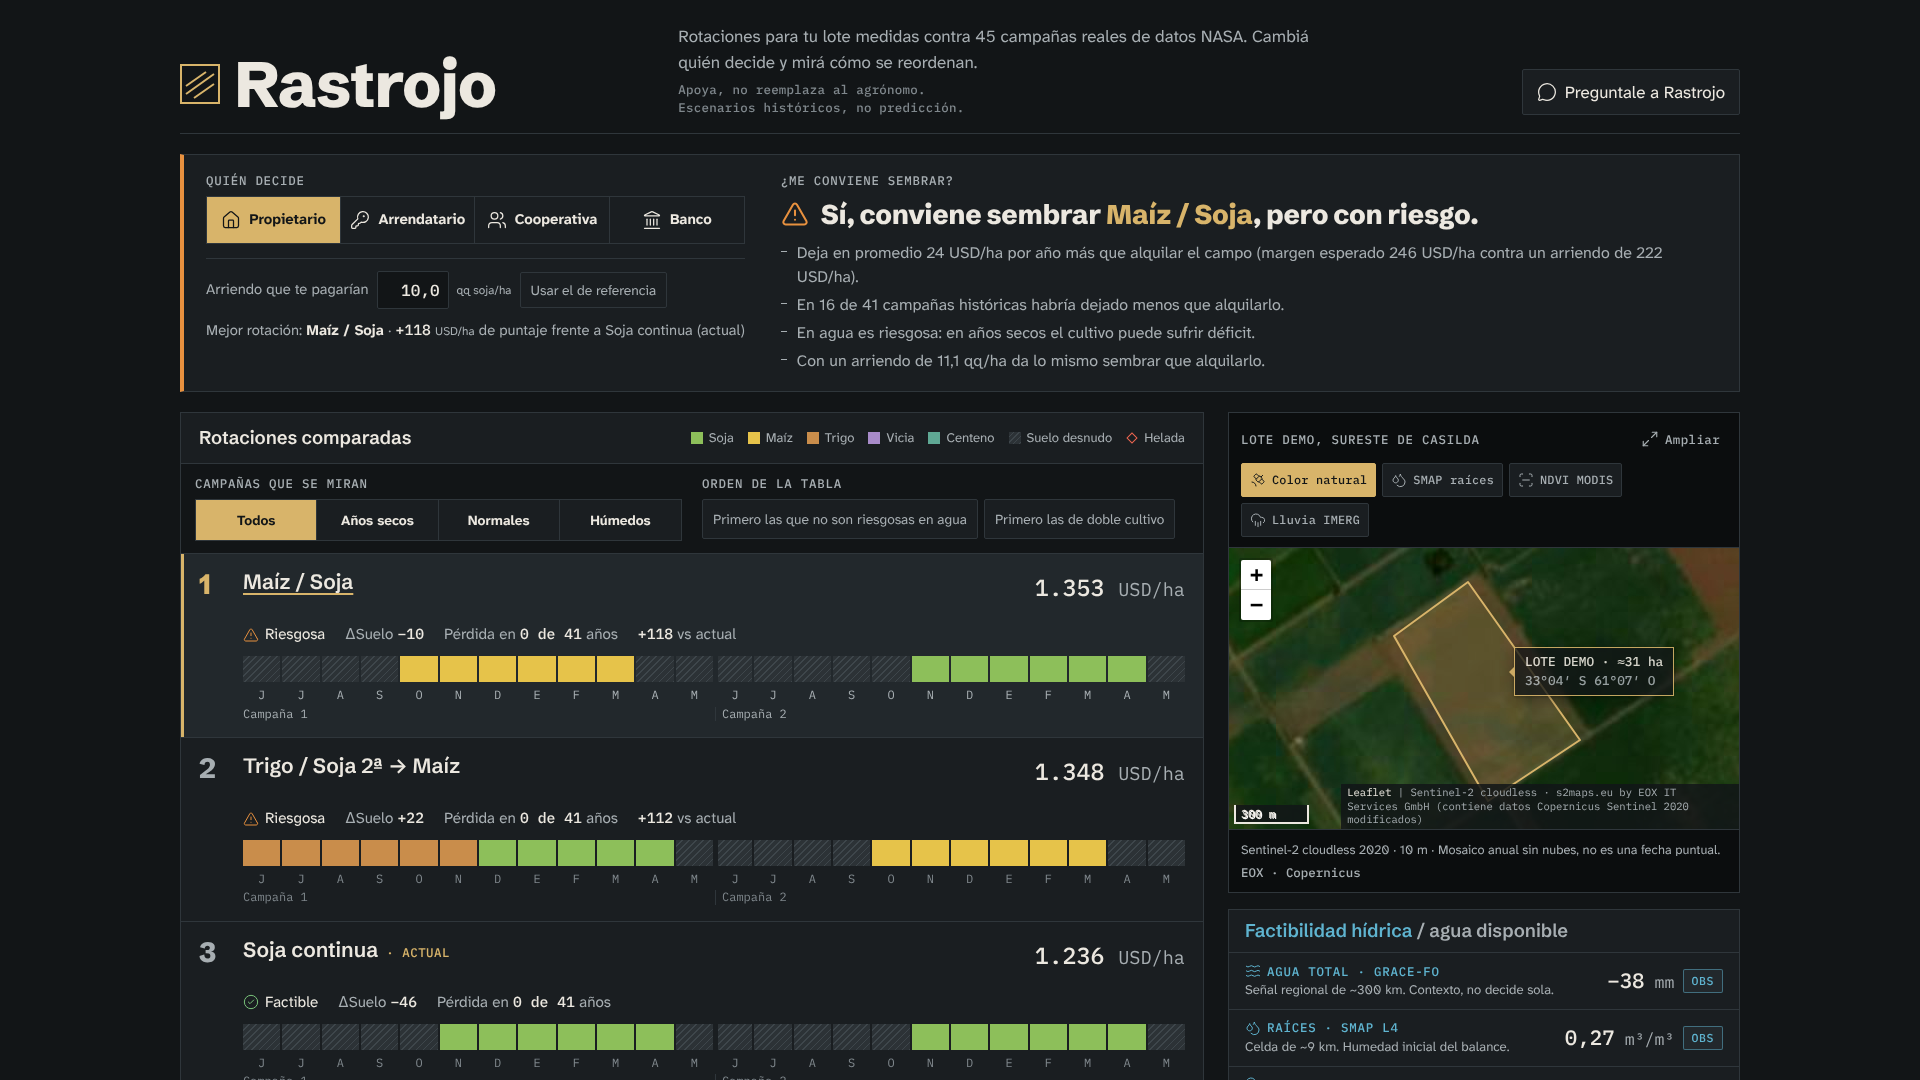
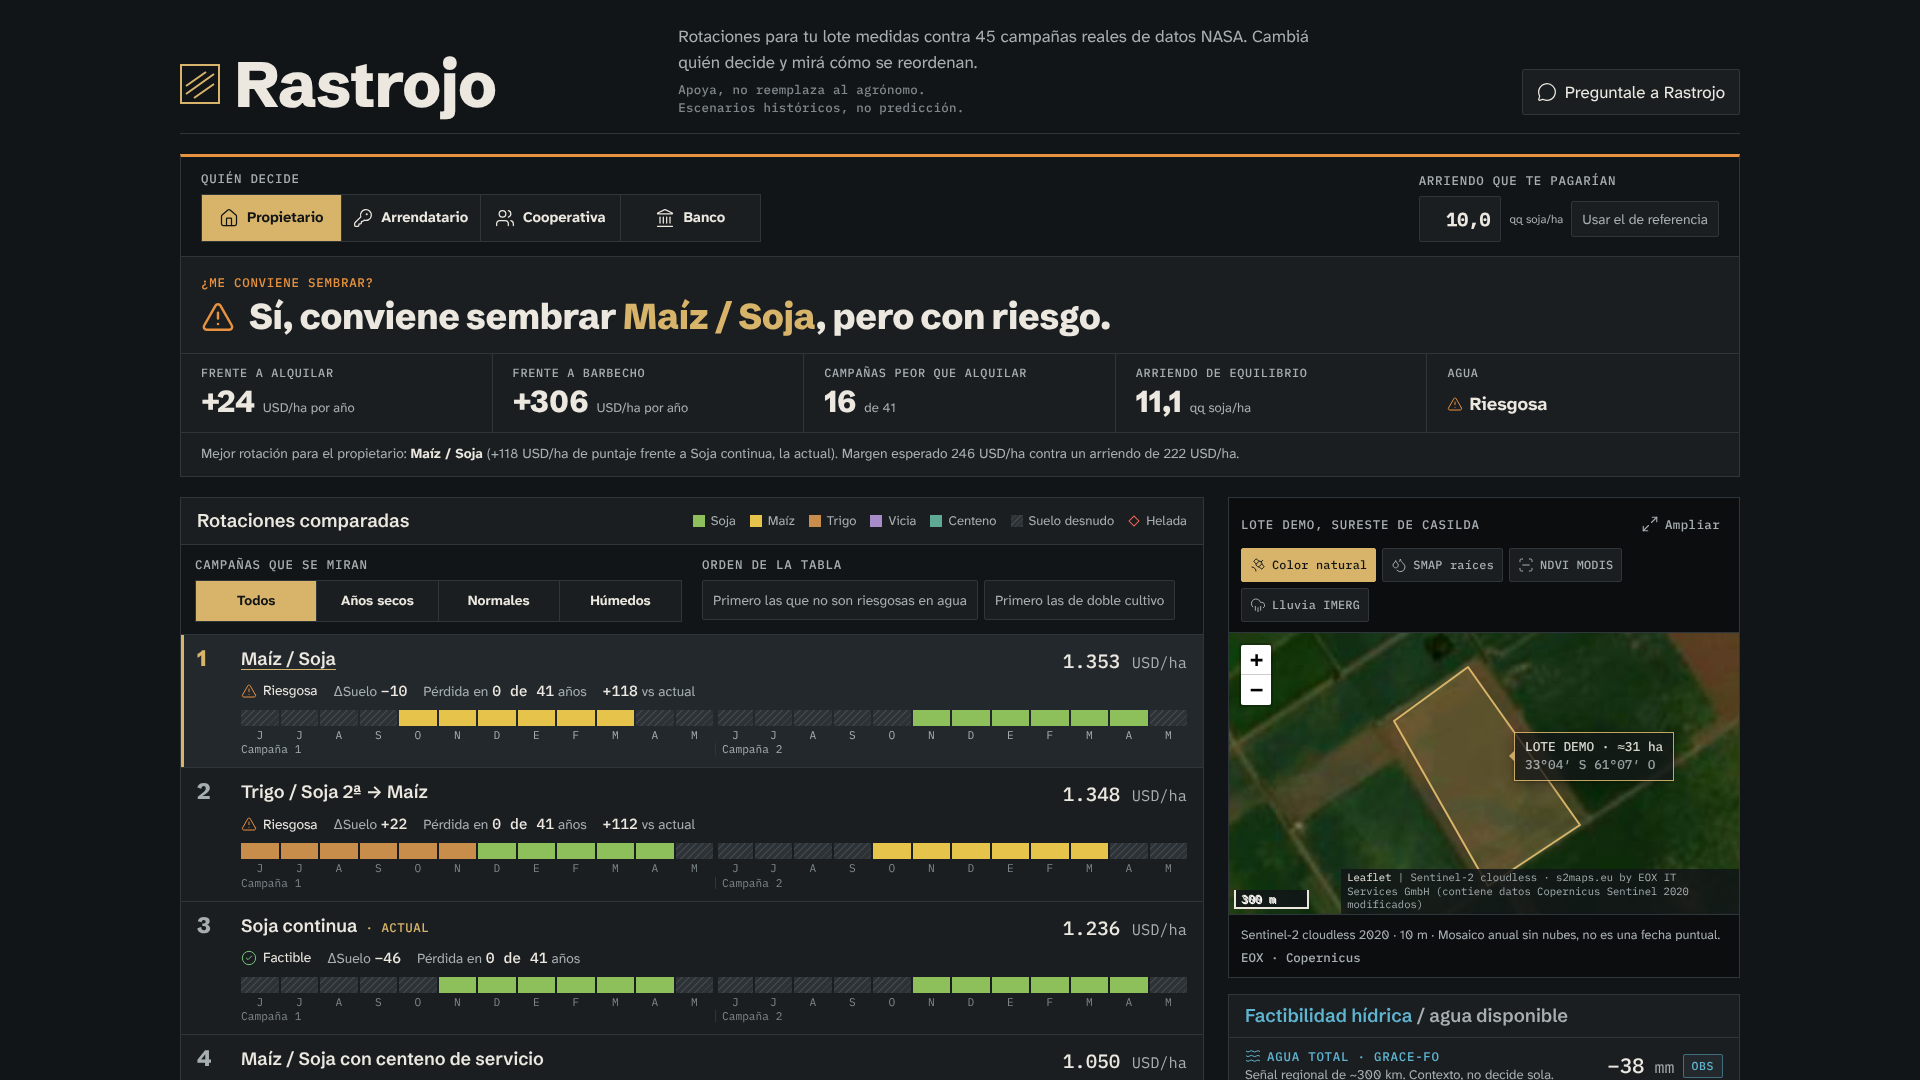
wip(web): condensed ranking rows, verdict header with control bar and stat tiles
Local only: pending the user's review before pushing.

Claude-Session: https://claude.ai/code/session_01JTGC2xwYJ8ZqjVg3XMmALB

diff --git a/web/src/styles/app.css b/web/src/styles/app.css
@@ -84,34 +84,46 @@ header.top {
 /* Verdict band: "¿me conviene sembrar?" answered first, with who decides */
 .verdict {
   --v: var(--color-straw);
-  display: grid; grid-template-columns: minmax(300px, auto) minmax(0, 1fr); gap: 16px 36px; align-items: start;
-  background: var(--color-panel); border: 1px solid var(--color-rule); border-left: 4px solid var(--v);
-  padding: 18px 22px;
+  display: grid; gap: 0;
+  background: var(--color-panel); border: 1px solid var(--color-rule); border-top: 3px solid var(--v);
 }
 .verdict.v-sow { --v: var(--color-state-feasible); }
 .verdict.v-risk { --v: var(--color-state-risky); }
 .verdict.v-no { --v: var(--color-state-not-feasible); }
-.verdict-body { display: grid; gap: 10px; min-width: 0; }
-.verdict-q { color: var(--color-text-soft); }
-.verdict-line { display: flex; gap: 12px; align-items: flex-start; font: 700 clamp(1.3rem, 1.7vw, 1.7rem)/1.2 var(--font-display); letter-spacing: -0.01em; color: var(--color-text); }
-.verdict-icon { flex: none; color: var(--v); margin-top: 2px; }
+.verdict-bar {
+  display: flex; flex-wrap: wrap; align-items: end; justify-content: space-between; gap: 12px 32px;
+  padding: 14px 20px; background: var(--color-graphite); border-bottom: 1px solid var(--color-rule);
+}
+.verdict-bar .actorbar { min-width: min(100%, 560px); }
+.verdict-body { display: grid; gap: 6px; padding: 18px 20px 16px; min-width: 0; }
+.verdict-q { color: var(--v); }
+.verdict-line { display: flex; gap: 14px; align-items: center; font: 800 clamp(1.5rem, 2.3vw, 2.25rem)/1.12 var(--font-display); letter-spacing: -0.015em; color: var(--color-text); }
+.verdict-icon { flex: none; color: var(--v); }
 .verdict-line em { font-style: normal; color: var(--color-straw); }
-.verdict-reasons { display: grid; gap: 4px; color: var(--color-text-soft); font-size: 1rem; }
-.verdict-reasons li { position: relative; padding-left: 16px; }
-.verdict-reasons li::before { content: ""; position: absolute; left: 0; top: 0.62em; width: 6px; height: 1px; background: var(--color-text-soft); }
-.verdict-side { display: grid; gap: 14px; align-content: start; min-width: 0; }
-.verdict-foot { display: grid; gap: 10px; border-top: 1px solid var(--color-rule); padding-top: 12px; }
-.rent { display: inline-flex; flex-wrap: wrap; align-items: center; gap: 8px; font-size: 0.92rem; color: var(--color-text-soft); }
+.stats { display: grid; grid-template-columns: repeat(auto-fit, minmax(170px, 1fr)); border-top: 1px solid var(--color-rule); }
+.stat { padding: 12px 20px 14px; border-right: 1px solid var(--color-rule); display: grid; gap: 6px; align-content: start; min-width: 0; }
+.stat:last-child { border-right: 0; }
+.stat dt { font: 500 0.74rem/1.25 var(--font-mono); letter-spacing: 0.06em; text-transform: uppercase; color: var(--color-text-soft); }
+.stat dd { display: flex; align-items: baseline; gap: 8px; flex-wrap: wrap; }
+.stat-value { font: 700 1.9rem/1 var(--font-display); color: var(--color-text); }
+.stat-value .state { font: 600 1.15rem/1.2 var(--font-body); }
+.stat-note { font-size: 0.82rem; color: var(--color-text-soft); }
+.verdict-foot { padding: 10px 20px 12px; border-top: 1px solid var(--color-rule); max-width: none; }
+.verdict-foot b { color: var(--color-text); }
+.rent { display: grid; gap: 8px; }
+.rent-field { display: inline-flex; flex-wrap: wrap; align-items: center; gap: 8px; font-size: 0.9rem; color: var(--color-text-soft); }
 .rent input {
-  width: 4.5em; min-height: 38px; padding: 6px 8px; text-align: right;
-  font: 500 1rem/1 var(--font-mono); color: var(--color-text);
-  background: var(--color-graphite); border: 1px solid var(--color-rule); border-radius: var(--rounded-sm);
+  width: 4.5em; min-height: 46px; padding: 6px 10px; text-align: right;
+  font: 600 1.15rem/1 var(--font-mono); color: var(--color-text);
+  background: var(--color-panel); border: 1px solid var(--color-rule); border-radius: var(--rounded-sm);
 }
 .rent input:focus-visible { border-color: var(--color-straw); }
-.verdict-best { font-size: 0.92rem; color: var(--color-text-soft); }
-.verdict-best b { color: var(--color-text); font-weight: 700; }
-.verdict-best .fig { color: var(--color-text); }
-@media (max-width: 1240px) { .verdict { grid-template-columns: minmax(0, 1fr); } }
+@media (max-width: 640px) {
+  .stats { grid-template-columns: repeat(2, minmax(0, 1fr)); }
+  .stat { border-bottom: 1px solid var(--color-rule); }
+  .stat:nth-child(2n) { border-right: 0; }
+  .verdict-line { align-items: flex-start; }
+}
 
 /* Map */
 .map { background: var(--color-map-ground); border: 1px solid var(--color-rule); min-width: 0; }
@@ -250,7 +262,7 @@ header.top {
 @keyframes load { from { transform: scaleX(0); } to { transform: scaleX(1); } }
 .rank.is-loading .rows { opacity: 0.6; }
 .rows { transition: opacity var(--dur-quick) var(--ease-out); }
-.rank-head { display: flex; flex-wrap: wrap; justify-content: space-between; gap: 10px; padding: 14px 18px; border-bottom: 1px solid var(--color-rule); align-items: center; }
+.rank-head { display: flex; flex-wrap: wrap; justify-content: space-between; gap: 10px; padding: 12px 16px; border-bottom: 1px solid var(--color-rule); align-items: center; }
 .legend { display: flex; flex-wrap: wrap; gap: 6px 14px; font-size: 0.82rem; color: var(--color-text-soft); }
 .legend li { display: inline-flex; align-items: center; gap: 6px; }
 .key { width: 12px; height: 12px; display: inline-block; }
@@ -258,7 +270,7 @@ header.top {
 
 .row {
   display: grid; grid-template-columns: 30px minmax(0, 1fr) auto; gap: 4px 14px;
-  padding: 16px 18px; border-bottom: 1px solid var(--color-rule); background: var(--color-panel);
+  padding: 12px 16px; border-bottom: 1px solid var(--color-rule); background: var(--color-panel);
   box-shadow: inset 0 0 0 transparent;
   transition: box-shadow var(--dur-quick) var(--ease-out), background var(--dur-instant) var(--ease-out);
   position: relative;
@@ -268,26 +280,28 @@ header.top {
 .row.selected { background: var(--color-panel-2); }
 /* Faint text only reaches 4.5:1 on graphite/panel; on panel-2 it steps up to soft. */
 .row.selected .months, .row.selected .campaigns { color: var(--color-text-soft); }
-.pos { font: 800 1.75rem/1 var(--font-display); color: var(--color-text-soft); }
+.pos { font: 800 1.4rem/1 var(--font-display); color: var(--color-text-soft); }
 .row.first .pos { color: var(--color-straw); }
 .name { min-width: 0; }
 .name-btn {
   background: none; border: 0; padding: 0; text-align: left; cursor: pointer;
-  font: 600 1.3rem/1.2 var(--font-display); color: var(--color-text);
+  font: 600 1.12rem/1.2 var(--font-display); color: var(--color-text);
   text-decoration: underline transparent; text-underline-offset: 4px;
   transition: text-decoration-color var(--dur-instant) var(--ease-out);
 }
 .name-btn:hover, .name-btn[aria-pressed="true"] { text-decoration-color: var(--color-straw); }
 .current-tag { font: 500 0.78rem/1 var(--font-mono); letter-spacing: 0.04em; color: var(--color-straw); text-transform: uppercase; }
 .score { text-align: right; display: grid; gap: 2px; justify-items: end; }
-.score .fig { font-size: 1.45rem; }
+.score { position: relative; }
+.score .fig { font-size: 1.2rem; }
+.score .move { position: absolute; right: 0; top: calc(100% + 2px); }
 .move { font: 500 0.78rem/1 var(--font-mono); color: var(--color-straw); min-height: 1em; }
 .out { font: 500 0.78rem/1.2 var(--font-mono); letter-spacing: 0.06em; text-transform: uppercase; color: var(--color-text-soft); border: 1px solid var(--color-rule); border-radius: var(--rounded-sm); padding: 5px 8px; white-space: nowrap; }
 .why { flex-basis: 100%; color: var(--color-text); }
 .row.ineligible .rot-name { color: var(--color-text-soft); }
 .move[data-move] { animation: move-mark 2.5s linear forwards; }
 @keyframes move-mark { 0%, 88% { opacity: 1; } 100% { opacity: 0; } }
-.facts { grid-column: 2 / 4; display: flex; flex-wrap: wrap; align-items: center; gap: 4px 20px; font-size: 0.95rem; color: var(--color-text-soft); }
+.facts { grid-column: 2 / 4; display: flex; flex-wrap: wrap; align-items: center; gap: 2px 16px; font-size: 0.86rem; color: var(--color-text-soft); }
 .state { display: inline-flex; align-items: center; gap: 6px; color: var(--color-text); }
 .state svg { flex: none; }
 .st-feasible svg { color: var(--color-state-feasible); }
@@ -296,11 +310,11 @@ header.top {
 .st-unknown svg { color: var(--color-state-unknown); }
 
 /* Campaign strip */
-.strip-wrap { grid-column: 2 / 4; min-width: 0; margin-top: 6px; }
+.strip-wrap { grid-column: 2 / 4; min-width: 0; margin-top: 4px; }
 .strip, .months, .campaigns { display: grid; grid-template-columns: repeat(var(--cells), minmax(0, 1fr)); gap: 2px; }
-.campaigns { grid-template-columns: repeat(2, minmax(0, 1fr)); margin-top: 4px; font: 400 0.75rem/1.2 var(--font-mono); color: var(--color-text-faint); }
+.campaigns { grid-template-columns: repeat(2, minmax(0, 1fr)); margin-top: 2px; font: 400 0.7rem/1.1 var(--font-mono); color: var(--color-text-faint); }
 .campaigns span:last-child { border-left: 1px solid var(--color-rule); padding-left: 6px; }
-.strip i { height: 26px; display: block; position: relative; }
+.strip i { height: 16px; display: block; position: relative; }
 .strip i.camp-start, .months span.camp-start { margin-left: 3px; }
 .crop-soy { background: var(--color-crop-soy); }
 .crop-maize { background: var(--color-crop-maize); }
@@ -315,7 +329,7 @@ header.top {
 }
 .strip.enter i { animation: cell-in var(--dur-move) var(--ease-out) backwards; animation-delay: calc(var(--i) * 30ms); }
 @keyframes cell-in { from { opacity: 0.15; } }
-.months { margin-top: 6px; font: 400 0.75rem/1.2 var(--font-mono); color: var(--color-text-faint); text-align: center; }
+.months { margin-top: 3px; font: 400 0.7rem/1.1 var(--font-mono); color: var(--color-text-faint); text-align: center; }
 @media (max-width: 560px) {
   .row { grid-template-columns: 24px minmax(0, 1fr); }
   .score { grid-column: 2; justify-items: start; text-align: left; }

diff --git a/web/src/components/Verdict.tsx b/web/src/components/Verdict.tsx
@@ -1,9 +1,10 @@
-import { Fragment, useEffect, useState, type ReactNode } from "react";
+import { useEffect, useState, type ReactNode } from "react";
 import { CircleCheck, CircleX, Handshake, TriangleAlert } from "lucide-react";
 import type { RotationResult, SowingDecision } from "../data/types";
 import { orderRows } from "../lib/rankDiff";
 import { formatNumber, formatSigned } from "../lib/format";
 import { ProvenanceBadge } from "./ProvenanceBadge";
+import { WaterState } from "./WaterState";
 
 interface Props {
   results: RotationResult[];
@@ -16,7 +17,7 @@ interface Props {
   rentQq?: number;
   onRentQq: (qq: number | undefined) => void;
   rentDisabled?: boolean;
-  /** The actor selector, shown in the band: changing who decides is the main move. */
+  /** The actor selector: changing who decides is the main move. */
   children: ReactNode;
 }
 
@@ -40,8 +41,20 @@ function emphasize(text: string, name: string | undefined) {
   );
 }
 
+function Stat({ label, children, note }: { label: string; children: ReactNode; note?: ReactNode }) {
+  return (
+    <div className="stat">
+      <dt>{label}</dt>
+      <dd>
+        <span className="stat-value">{children}</span>
+        {note && <span className="stat-note">{note}</span>}
+      </dd>
+    </div>
+  );
+}
+
 /** The answer first. "¿Me conviene sembrar?" (or, for a tenant, "¿sigo arrendando?") as the API decides
- *  it, then which rotation ranks first. Only restates figures that come from the API. */
+ *  it, with its figures as stat tiles. Only restates figures that come from the API. */
 export function Verdict({ results, order, names, actorLabel, isTenant, sowing, rentQq, onRentQq, rentDisabled, children }: Props) {
   const rows = orderRows(results, order);
   const top = rows.find((r) => r.eligible) ?? null;
@@ -52,6 +65,7 @@ export function Verdict({ results, order, names, actorLabel, isTenant, sowing, r
   const shownRent = sowing ? formatNumber(sowing.rent_qq, 1) : "";
   useEffect(() => setDraft(rentQq === undefined ? shownRent : formatNumber(rentQq, 1)), [rentQq, shownRent]);
   const v = sowing ? VERDICT[sowing.verdict] : null;
+  const alt = isTenant ? "devolver el campo" : "alquilar";
 
   const commit = () => {
     const n = Number(draft.replace(",", "."));
@@ -65,63 +79,45 @@ export function Verdict({ results, order, names, actorLabel, isTenant, sowing, r
 
   return (
     <section className={`verdict${v ? ` ${v.cls}` : ""}`} aria-labelledby="h-verdict">
-      <div className="verdict-side">
+      <div className="verdict-bar">
         {children}
-      <div className="verdict-foot">
         {sowing && (
           <label className="rent">
-            <span>{isTenant ? "Arriendo que pagás" : "Arriendo que te pagarían"}</span>
-            <input
-              type="text"
-              inputMode="decimal"
-              value={draft}
-              disabled={rentDisabled}
-              aria-describedby="rent-help"
-              onChange={(e) => setDraft(e.target.value)}
-              onBlur={commit}
-              onKeyDown={(e) => e.key === "Enter" && (e.currentTarget as HTMLInputElement).blur()}
-            />
-            <span className="unit">qq soja/ha</span>
-            {rentQq === undefined ? (
-              <ProvenanceBadge provenance={{ kind: "ASSUMPTION", assumption_id: "A-ECO-05" }} />
-            ) : (
-              <button type="button" className="btn-secondary btn-sm" onClick={() => onRentQq(undefined)}>
-                Usar el de referencia
-              </button>
-            )}
+            <span className="label">{isTenant ? "Arriendo que pagás" : "Arriendo que te pagarían"}</span>
+            <span className="rent-field">
+              <input
+                type="text"
+                inputMode="decimal"
+                value={draft}
+                disabled={rentDisabled}
+                aria-describedby="rent-help"
+                onChange={(e) => setDraft(e.target.value)}
+                onBlur={commit}
+                onKeyDown={(e) => e.key === "Enter" && (e.currentTarget as HTMLInputElement).blur()}
+              />
+              <span className="unit">qq soja/ha</span>
+              {rentQq === undefined ? (
+                <ProvenanceBadge provenance={{ kind: "ASSUMPTION", assumption_id: "A-ECO-05" }} />
+              ) : (
+                <button type="button" className="btn-secondary btn-sm" onClick={() => onRentQq(undefined)}>
+                  Usar el de referencia
+                </button>
+              )}
+            </span>
             <span id="rent-help" className="sr-only">
               Cambiá el arriendo y el motor vuelve a decidir si conviene sembrar.
             </span>
           </label>
         )}
-        {top && (
-          <p className="verdict-best">
-            Mejor rotación: <b>{name(top)}</b>
-            {delta && current && (
-              <Fragment>
-                {" "}
-                · <span className="fig">{formatSigned(delta.value)}</span> <span className="unit">USD/ha</span> de puntaje frente a{" "}
-                {name(current)} (actual)
-              </Fragment>
-            )}
-          </p>
-        )}
       </div>
-      </div>
+
       <div className="verdict-body" aria-live="polite">
         <p className="label verdict-q">{isTenant ? "¿Me conviene seguir arrendando?" : "¿Me conviene sembrar?"}</p>
         {sowing && v ? (
-          <>
-            <h2 id="h-verdict" className="verdict-line" data-verdict={sowing.verdict}>
-              <v.Icon className="verdict-icon" size={28} strokeWidth={1.75} aria-hidden="true" />
-              <span>{emphasize(sowing.headline, sowing.rotation_id ? names[sowing.rotation_id] : undefined)}</span>
-            </h2>
-            <ul className="verdict-reasons">
-              {sowing.reasons.map((r, i) => (
-                <li key={i}>{r}</li>
-              ))}
-            </ul>
-          </>
+          <h2 id="h-verdict" className="verdict-line" data-verdict={sowing.verdict}>
+            <v.Icon className="verdict-icon" size={34} strokeWidth={1.75} aria-hidden="true" />
+            <span>{emphasize(sowing.headline, sowing.rotation_id ? names[sowing.rotation_id] : undefined)}</span>
+          </h2>
         ) : (
           <h2 id="h-verdict" className="verdict-line">
             {top ? (
@@ -134,6 +130,50 @@ export function Verdict({ results, order, names, actorLabel, isTenant, sowing, r
           </h2>
         )}
       </div>
+
+      {sowing && sowing.vs_rent && sowing.vs_fallow && (
+        <dl className="stats">
+          <Stat label={`Frente a ${alt}`} note="USD/ha por año">
+            <span className={sowing.vs_rent.value >= 0 ? "pos-val" : "neg-val"}>{formatSigned(sowing.vs_rent.value)}</span>
+          </Stat>
+          <Stat label="Frente a barbecho" note="USD/ha por año">
+            <span className={sowing.vs_fallow.value >= 0 ? "pos-val" : "neg-val"}>{formatSigned(sowing.vs_fallow.value)}</span>
+          </Stat>
+          <Stat label={`Campañas peor que ${alt}`} note={`de ${sowing.campaigns_total}`}>
+            {sowing.campaigns_below_rent}
+          </Stat>
+          {sowing.breakeven_rent_qq && (
+            <Stat label="Arriendo de equilibrio" note="qq soja/ha">
+              {formatNumber(sowing.breakeven_rent_qq.value, 1)}
+            </Stat>
+          )}
+          {sowing.water && (
+            <Stat label="Agua">
+              <WaterState state={sowing.water} />
+            </Stat>
+          )}
+        </dl>
+      )}
+
+      <p className="verdict-foot small soft">
+        {top && (
+          <>
+            Mejor rotación para el {actorLabel.toLowerCase()}: <b>{name(top)}</b>
+            {delta && current && (
+              <>
+                {" "}
+                ({formatSigned(delta.value)} USD/ha de puntaje frente a {name(current)}, la actual)
+              </>
+            )}
+            .{" "}
+          </>
+        )}
+        {sowing?.expected_margin && (
+          <>
+            Margen esperado {formatNumber(sowing.expected_margin.value)} USD/ha contra un arriendo de {formatNumber(sowing.rent.value)} USD/ha.
+          </>
+        )}
+      </p>
     </section>
   );
 }
